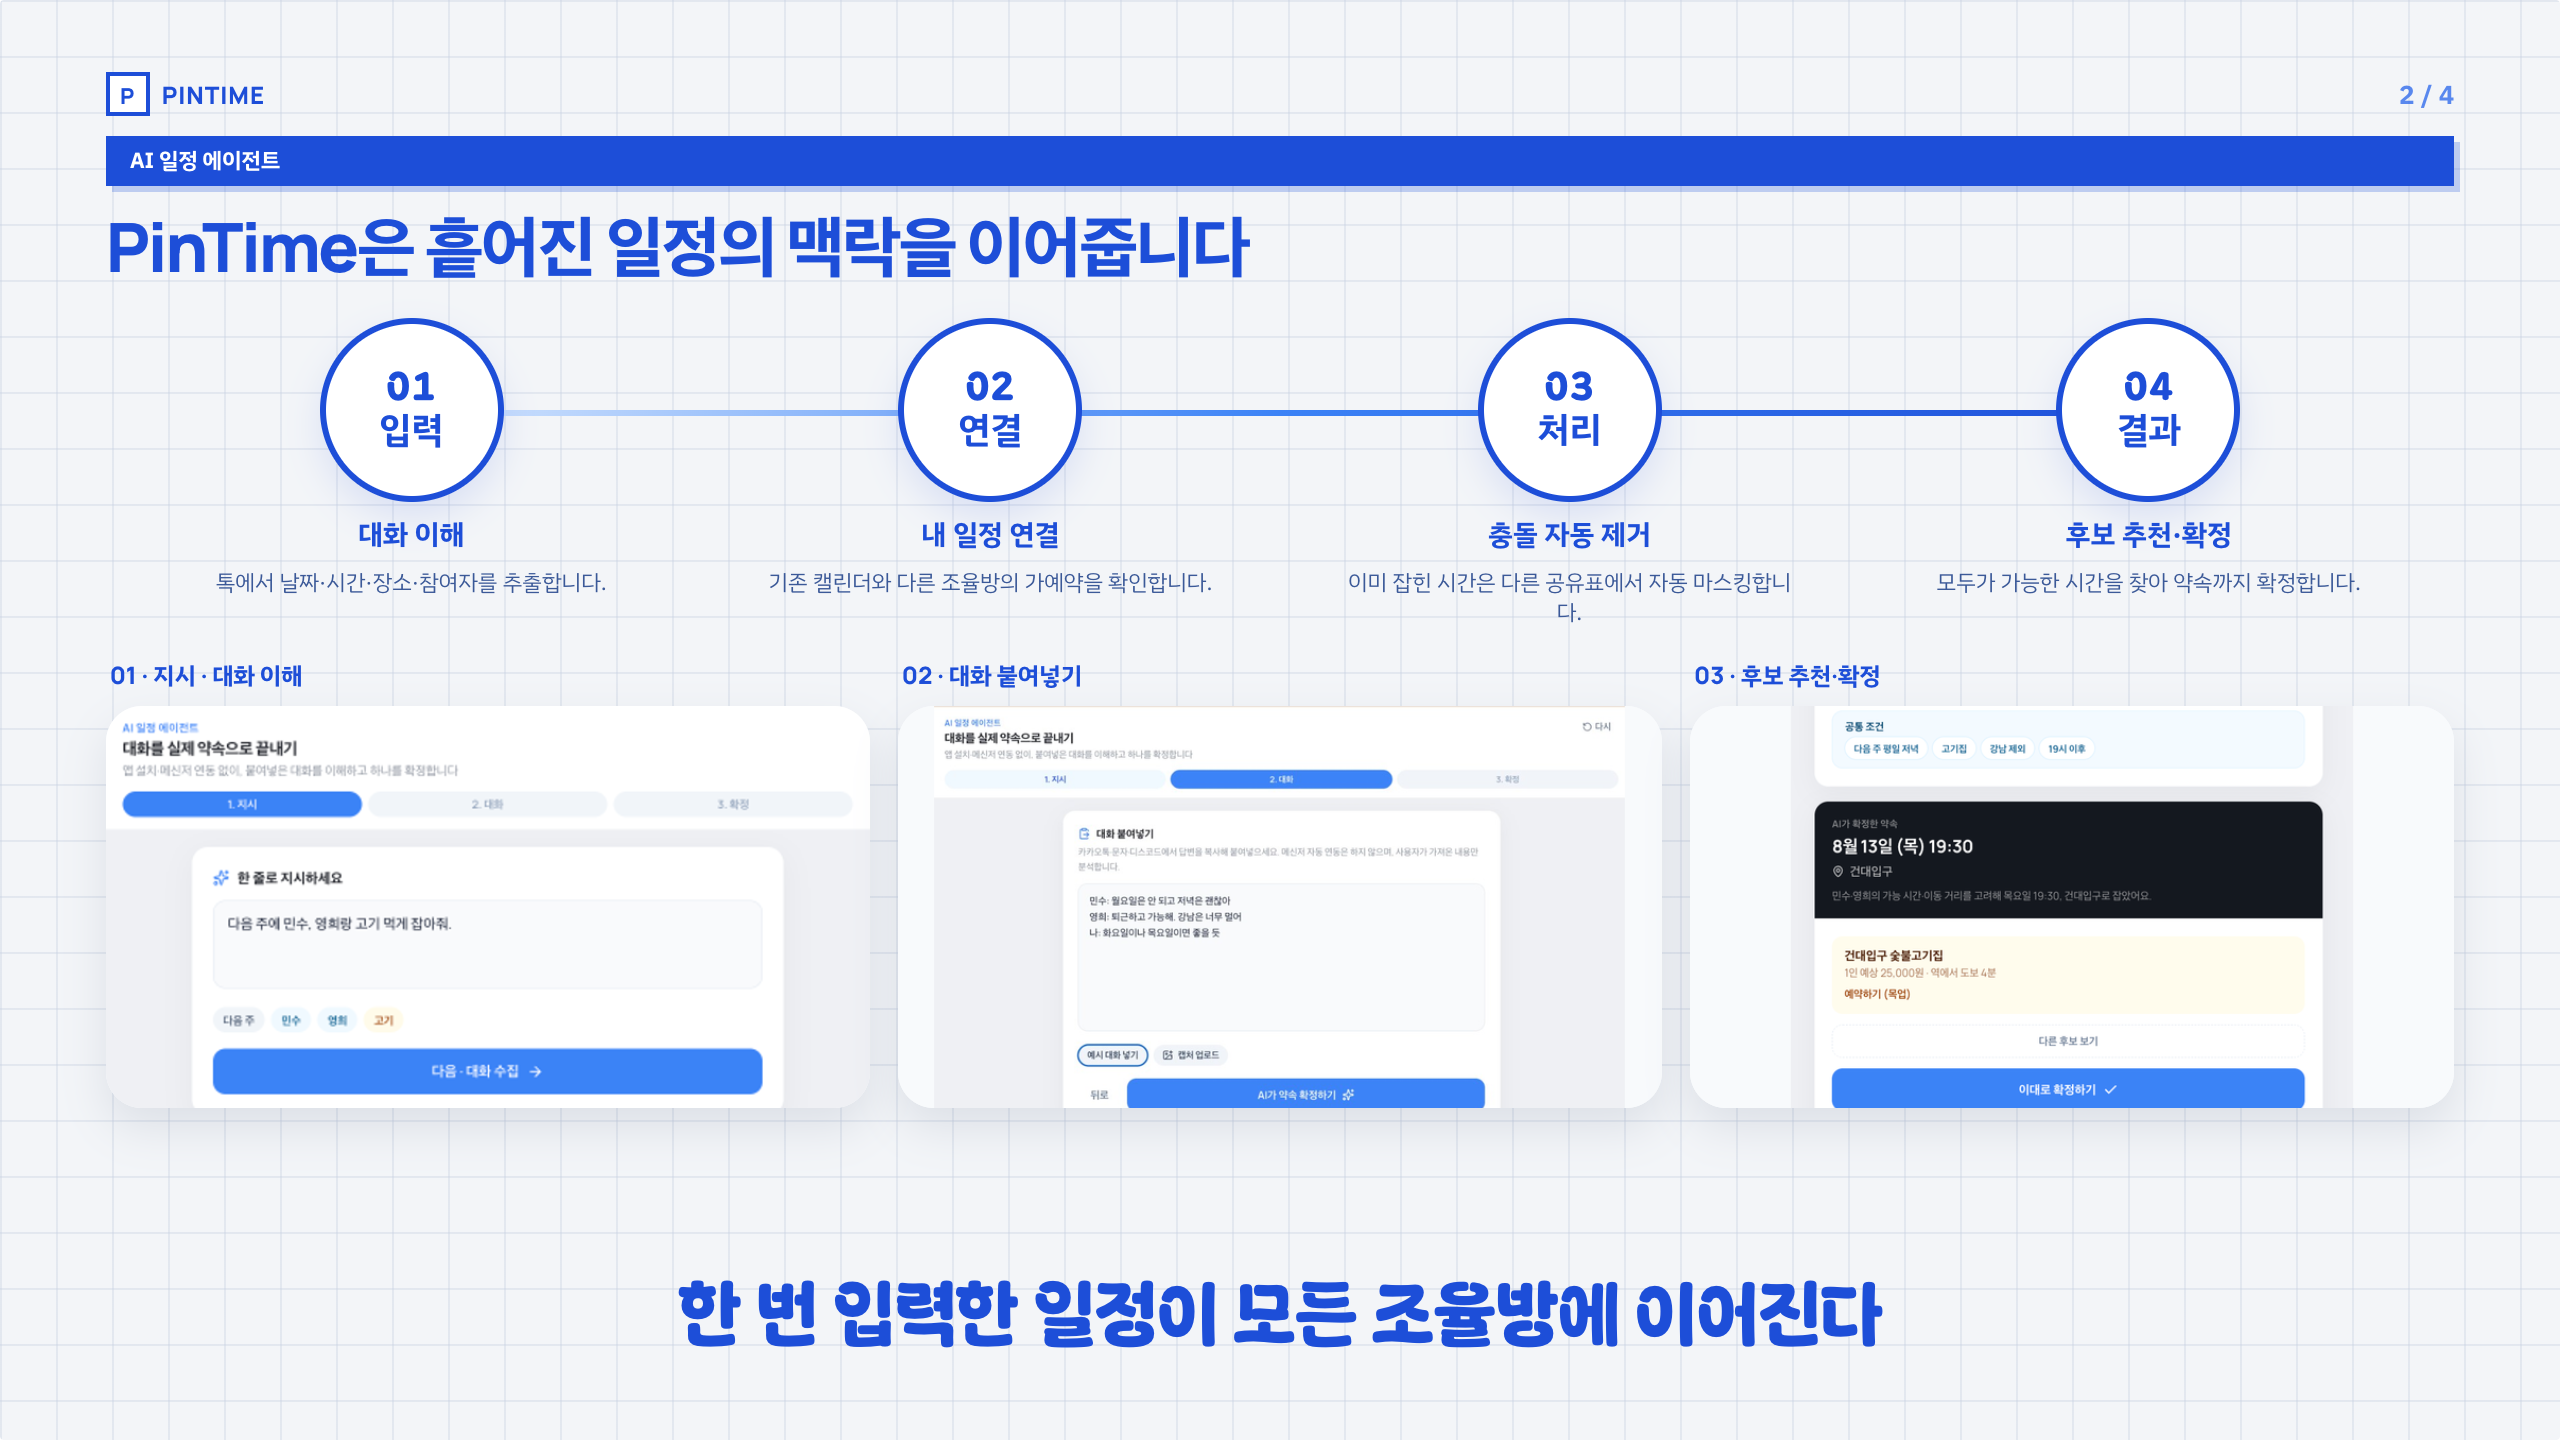
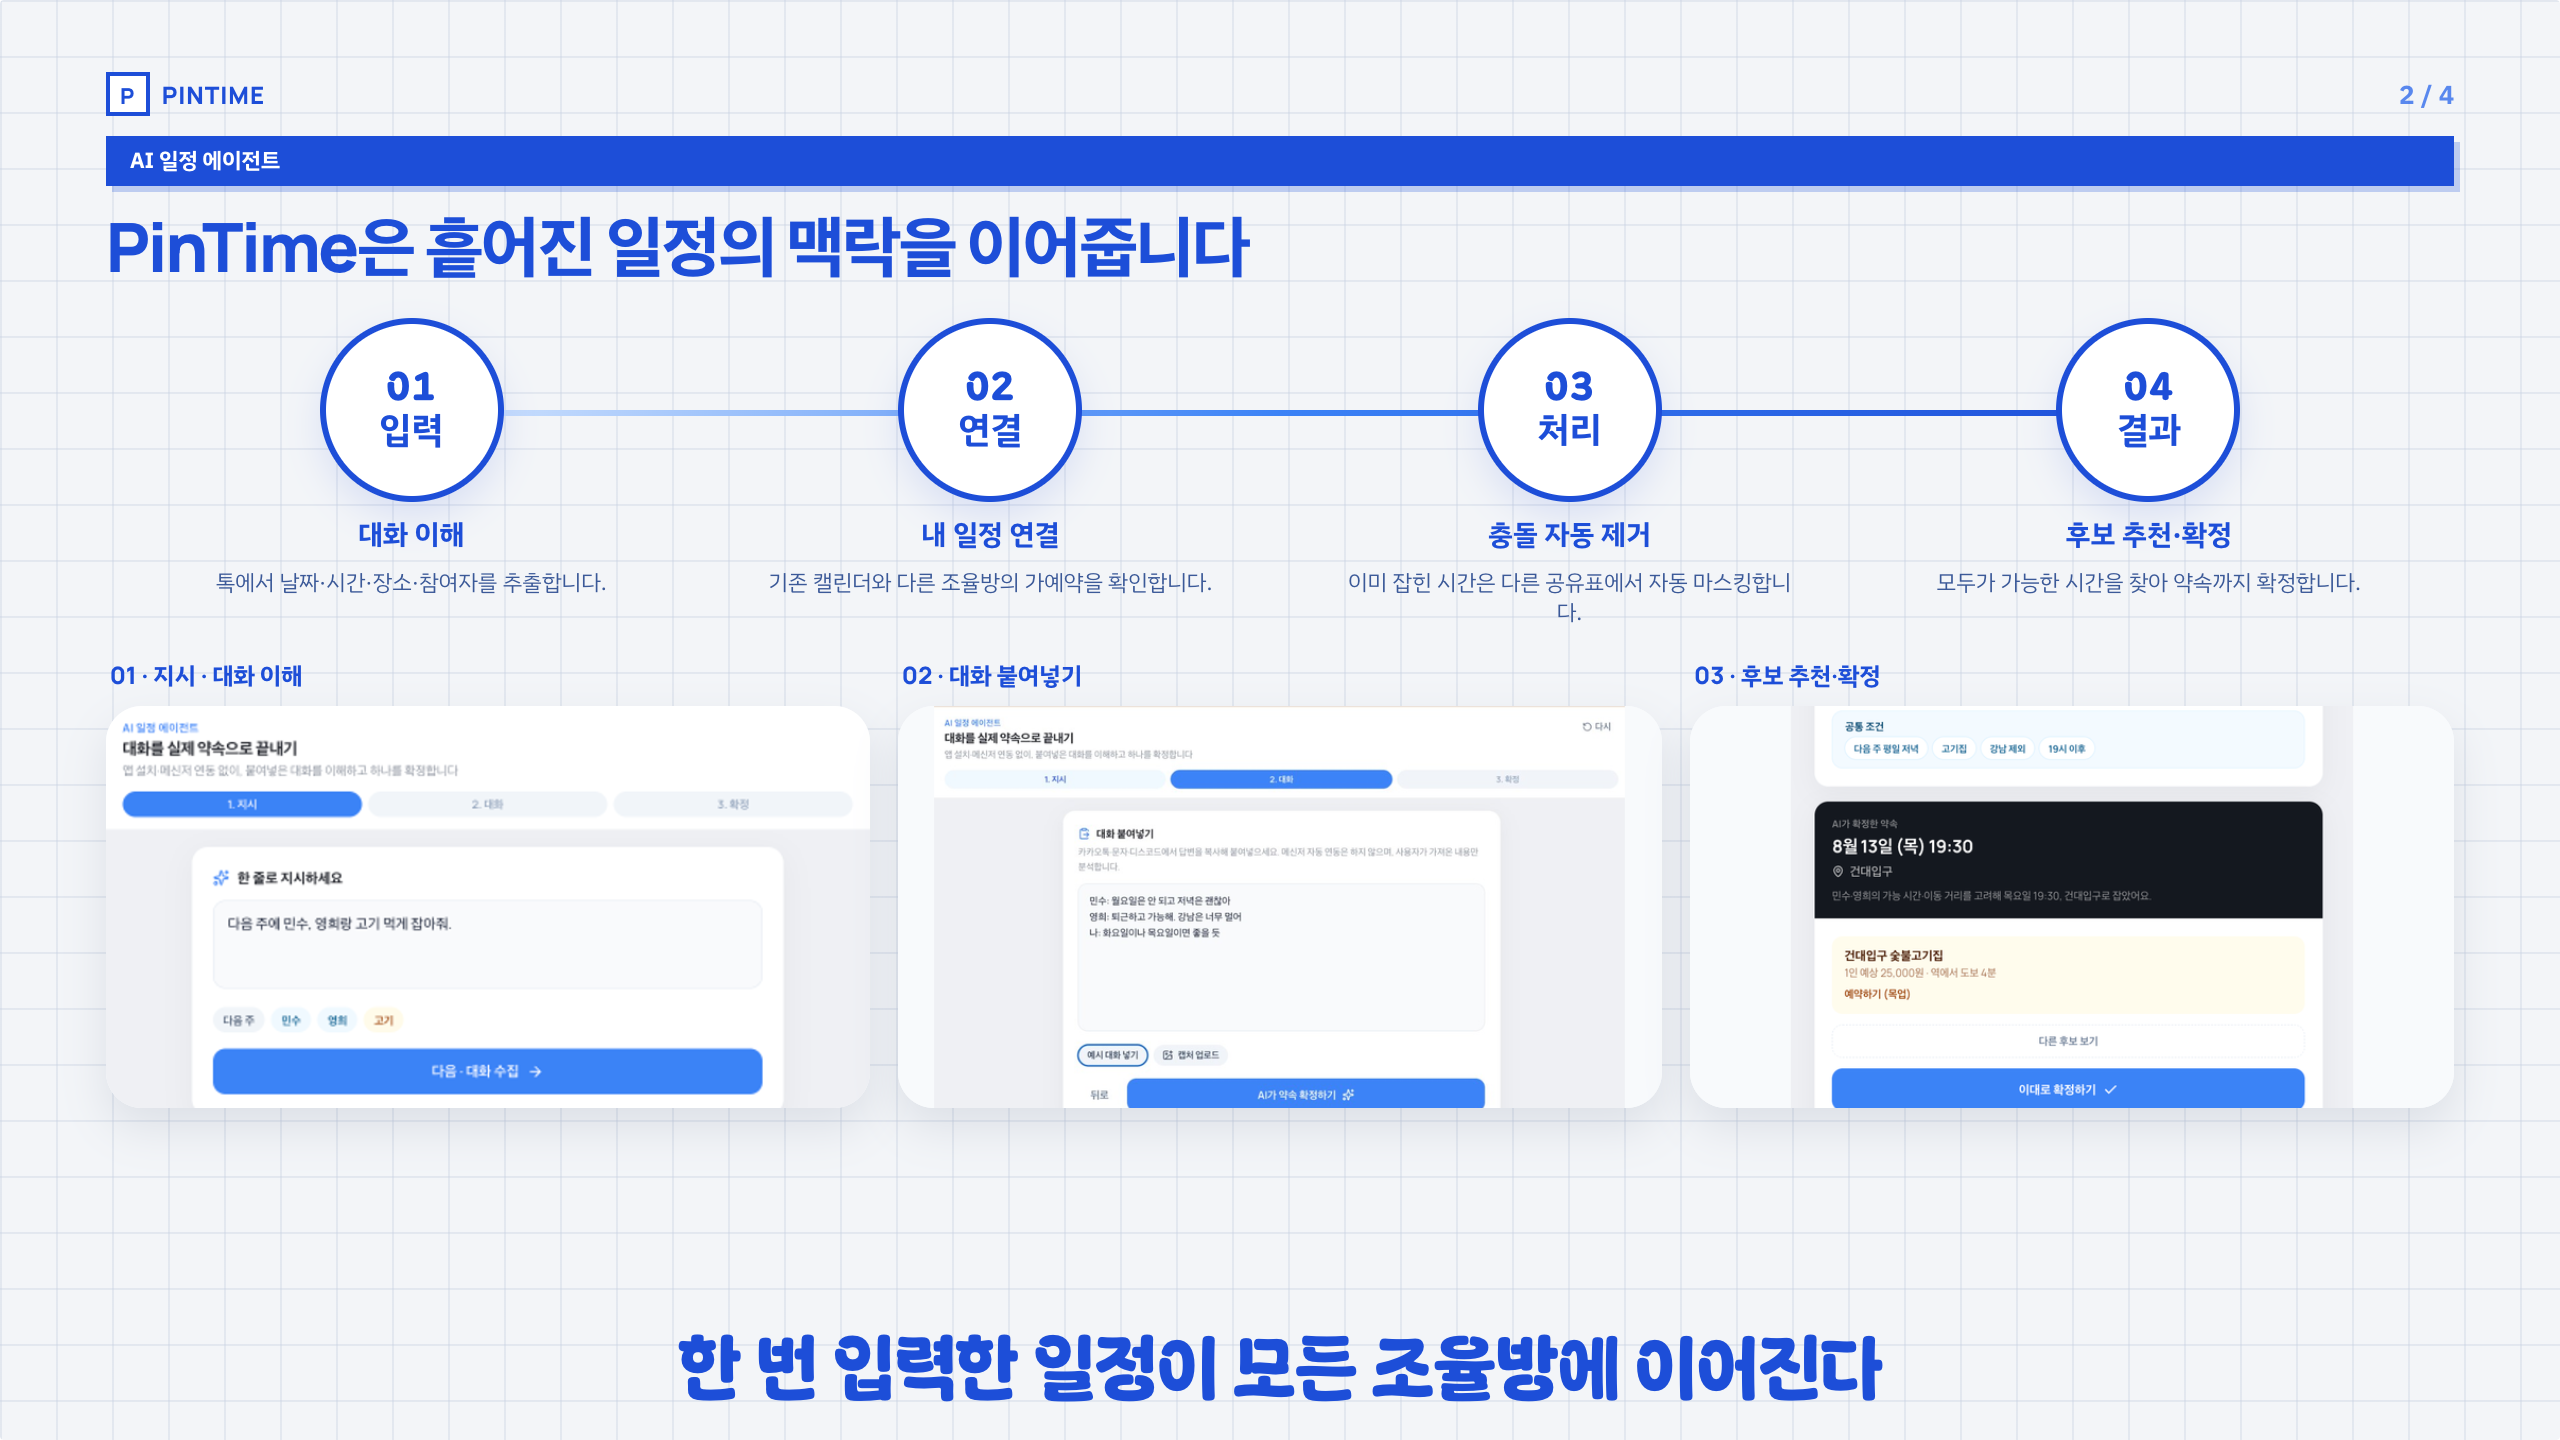
Set 15px gap between AI shots and centerline text.

Changed region(s): [[0.25, 0.875, 0.75, 1.0]]

diff --git a/public/pitch.html b/public/pitch.html
@@ -588,10 +588,10 @@
         box-shadow: 0 10px 22px rgba(15, 35, 80, 0.1);
       }
       #p3 .slide-inner {
-        padding-bottom: 0.22in;
+        padding-bottom: 15px;
       }
       .ai-centerline {
-        margin: 0.22in 0;
+        margin: 15px 0 0;
         text-align: center;
         font-family: 'Gumi Romance', 'IBM Plex Sans KR', sans-serif;
         font-size: 33px;
